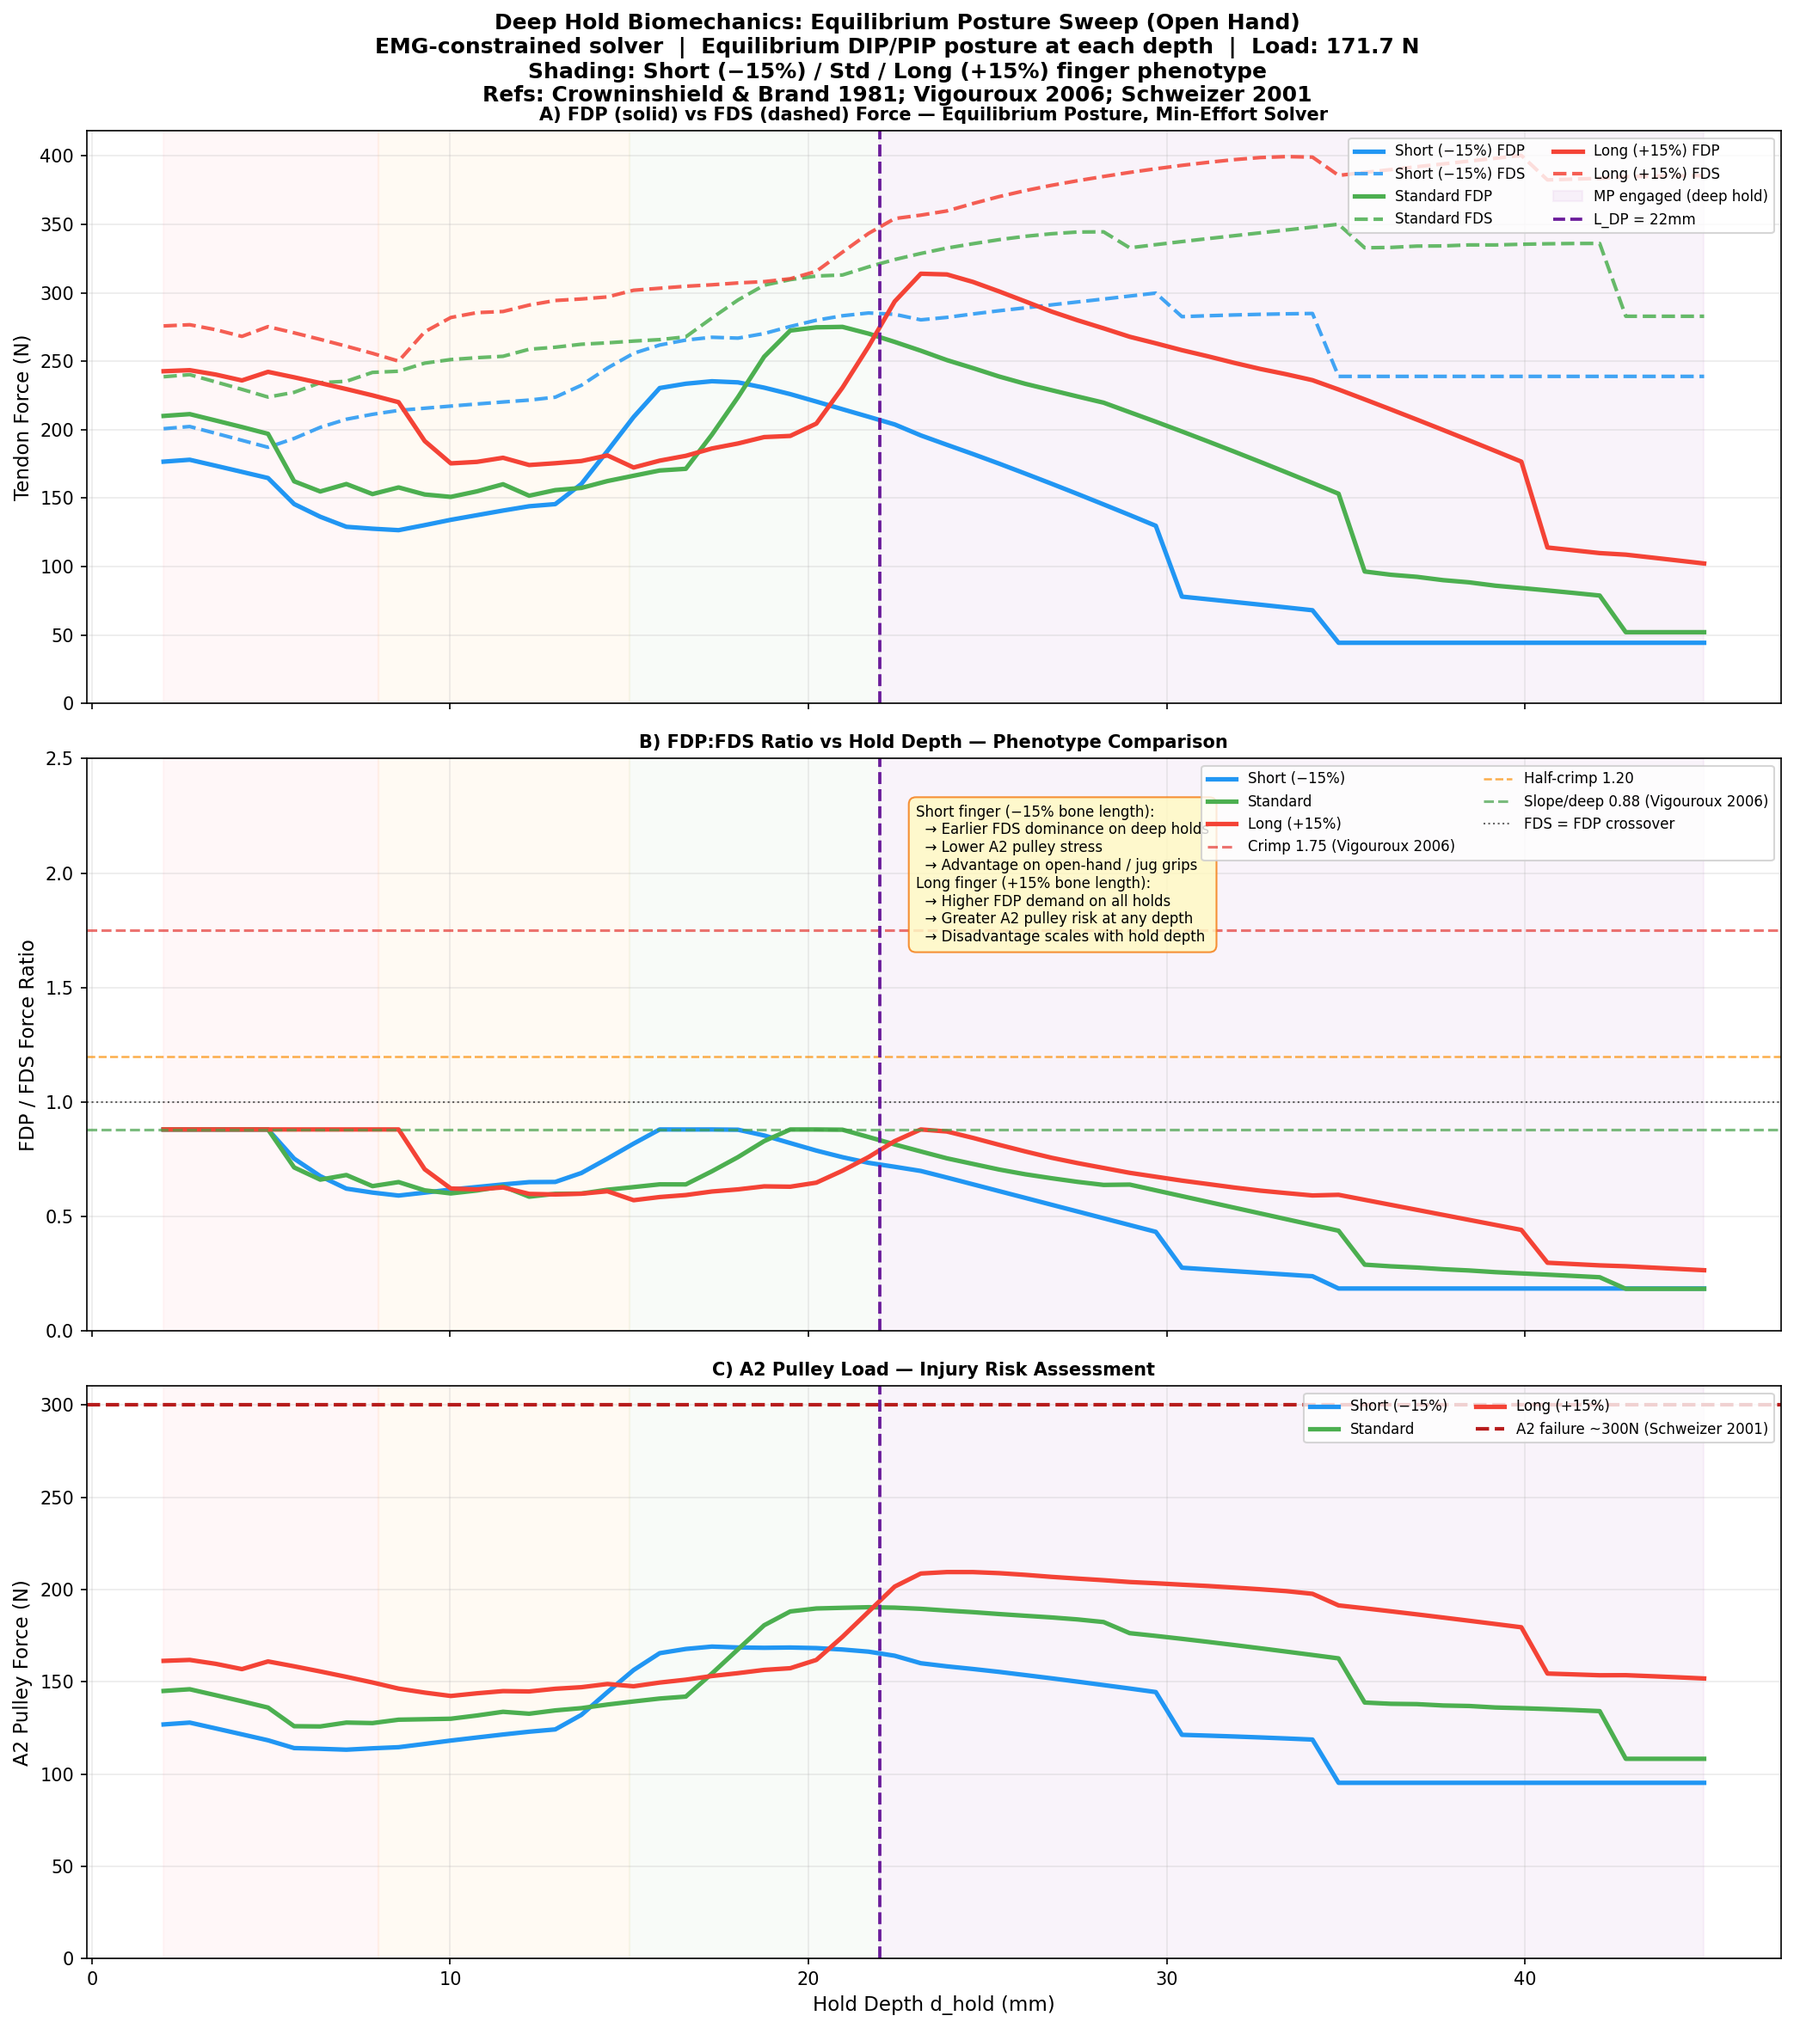
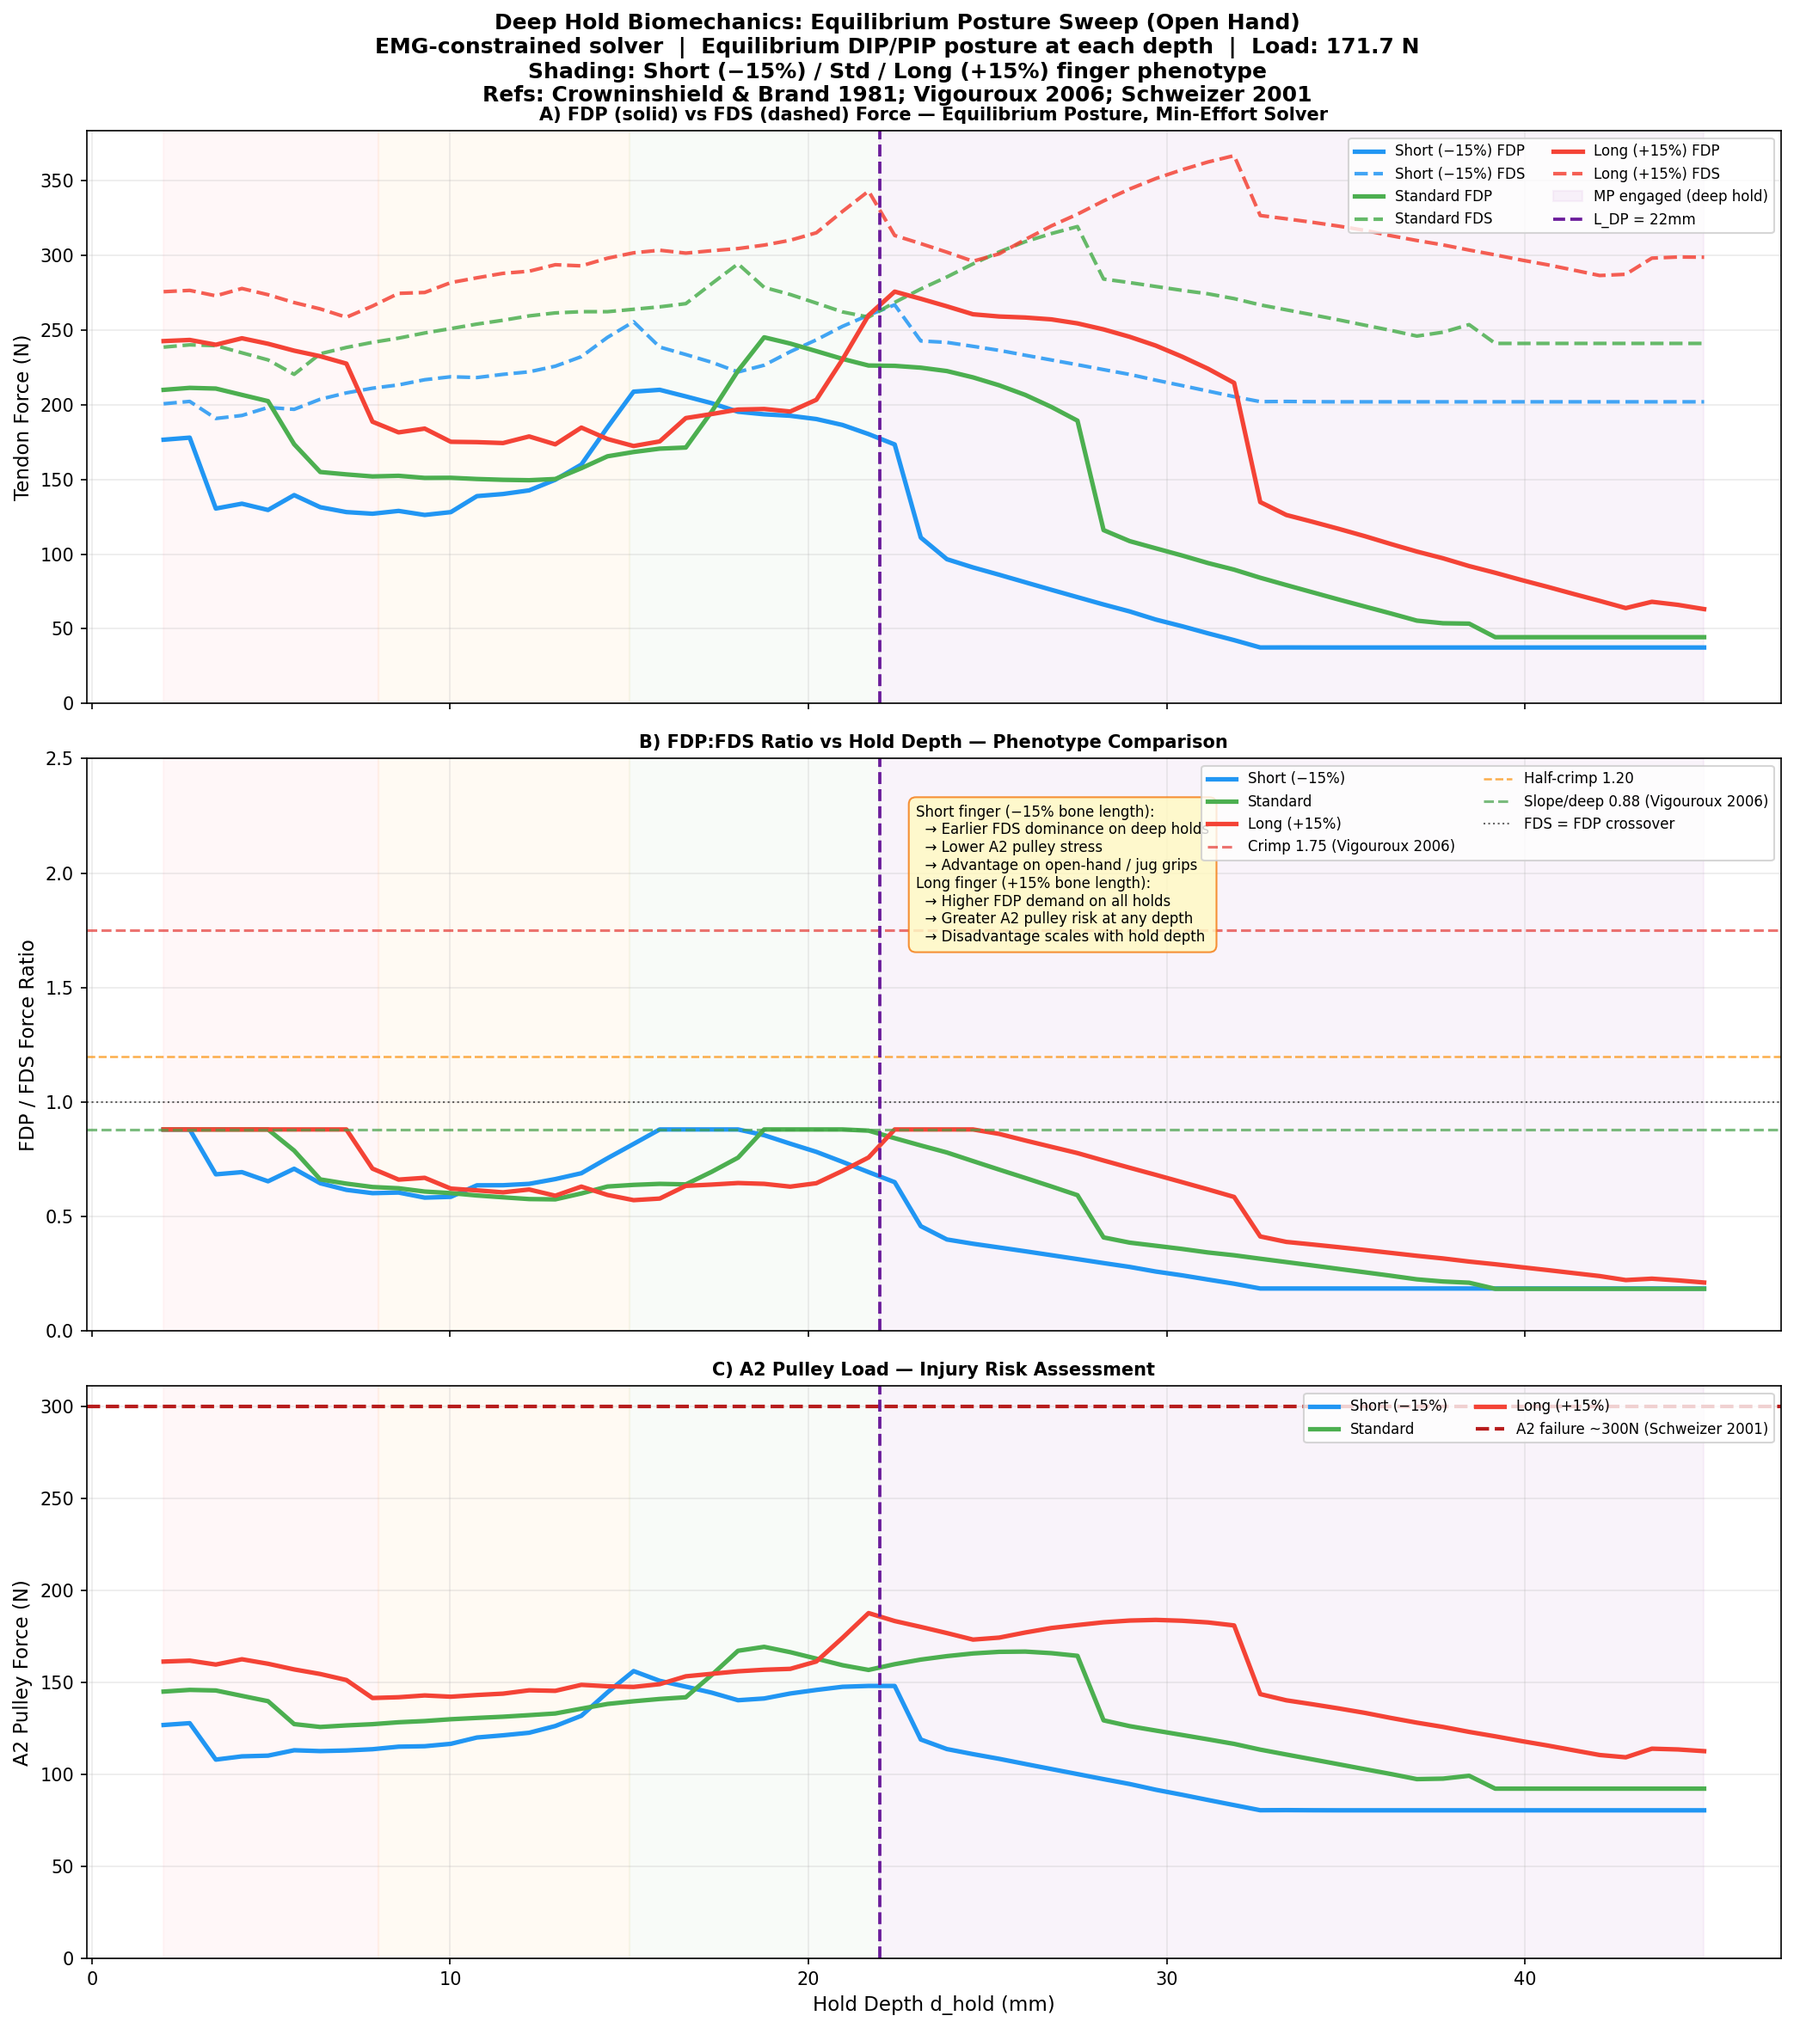
feat: add grip-mode continuity penalty and update grid search to combine global and local optimization

diff --git a/climbing_finger_3d.py b/climbing_finger_3d.py
@@ -668,37 +668,50 @@ def find_equilibrium_posture(grip_base: GripAngles, geom: FingerGeometry,
         if float(pip) > 120.0: penalty += 1000.0 * (float(pip) - 120.0)**2
         if float(dip) < -25.0: penalty += 1000.0 * (float(dip) + 25.0)**2
         if float(dip) > 90.0:  penalty += 1000.0 * (float(dip) - 90.0)**2
+
+        # Grip-mode continuity: penalise leaving the grip's natural DIP regime.
+        # This prevents the optimizer jumping from open-hand into the crimp basin.
+        # Soft ceiling: 20 deg above the nominal grip DIP (open-hand: 30+20=50 deg max).
+        dip_max_grip = grip_base.theta_DIP + 20.0
+        if float(dip) > dip_max_grip:
+            penalty += 500.0 * (float(dip) - dip_max_grip)**2
             
         return float(raw_total + penalty)
 
-    # ── 1. Grid search (skipped when warm-start provided) ────────────
-    # Search over the entire biological range — do not restrict to grip base.
-    # On steep walls/shallow holds, climbers are mechanically forced out of
-    # open hand into steep crimps to avoid joint collapse (negative moments).
-    pip_grid = np.linspace(0.0, 110.0, 16)   # 16 pts (~7 deg step)
-    dip_grid = np.linspace(-25.0, 90.0, 16)  # 16 pts (7.7 deg step)
-    best_f   = np.inf
-    best_pip, best_dip = theta_PIP_0, theta_DIP_0
+    # ── 1. Grid search ─────────────────────────────────────────────────
+    # Always run a full coarse global grid to find the true global basin.
+    # Additionally, if a warm-start is provided (e.g. previous depth in a sweep),
+    # run a fine local grid around it. Take whichever gives the lower total force.
+    # This prevents warm-start from trapping the optimizer in a local minimum
+    # when a genuine posture-mode transition occurs between adjacent depths.
+    pip_grid_g = np.linspace(0.0, 110.0, 16)   # global: 16 pts (~7 deg step)
+    dip_grid_g = np.linspace(-25.0, 90.0, 16)
+    best_f_global, best_pip_g, best_dip_g = np.inf, theta_PIP_0, theta_DIP_0
 
-    if pip0 is None:   # full grid search only without warm-start
-        for pip in pip_grid:
-            for dip in dip_grid:
+    for pip in pip_grid_g:
+        for dip in dip_grid_g:
+            try:
+                f = total_force_for_angles(pip, dip)
+                if f < best_f_global:
+                    best_f_global, best_pip_g, best_dip_g = f, pip, dip
+            except Exception:
+                pass
+
+    best_pip, best_dip, best_f = best_pip_g, best_dip_g, best_f_global
+
+    # If warm-start provided, also search locally — take result only if it beats global
+    if pip0 is not None:
+        best_f_warm, best_pip_w, best_dip_w = np.inf, pip0, dip0
+        for pip in np.linspace(pip0 - 15.0, pip0 + 15.0, 9):
+            for dip in np.linspace(dip0 - 15.0, dip0 + 15.0, 9):
                 try:
                     f = total_force_for_angles(pip, dip)
-                    if f < best_f:
-                        best_f, best_pip, best_dip = f, pip, dip
+                    if f < best_f_warm:
+                        best_f_warm, best_pip_w, best_dip_w = f, pip, dip
                 except Exception:
                     pass
-    else:
-        # Warm-start: evaluate a tight grid around the previous solution
-        for pip in np.linspace(theta_PIP_0 - 15.0, theta_PIP_0 + 15.0, 7):
-            for dip in np.linspace(theta_DIP_0 - 15.0, theta_DIP_0 + 15.0, 7):
-                try:
-                    f = total_force_for_angles(pip, dip)
-                    if f < best_f:
-                        best_f, best_pip, best_dip = f, pip, dip
-                except Exception:
-                    pass
+        if best_f_warm < best_f:
+            best_pip, best_dip, best_f = best_pip_w, best_dip_w, best_f_warm
 
     # ── 2. Local refinement ───────────────────────────────────────────
     try:
